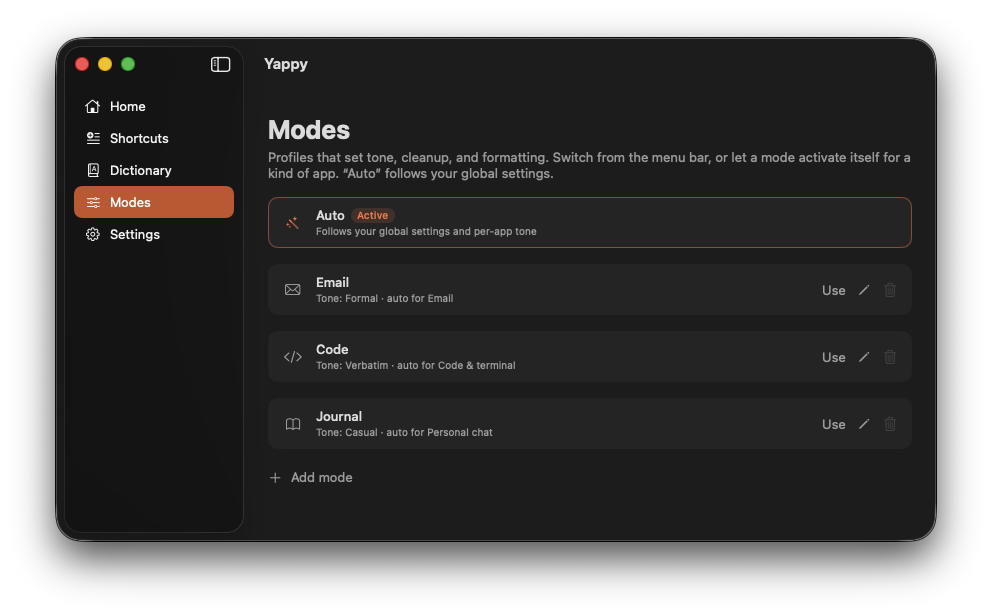
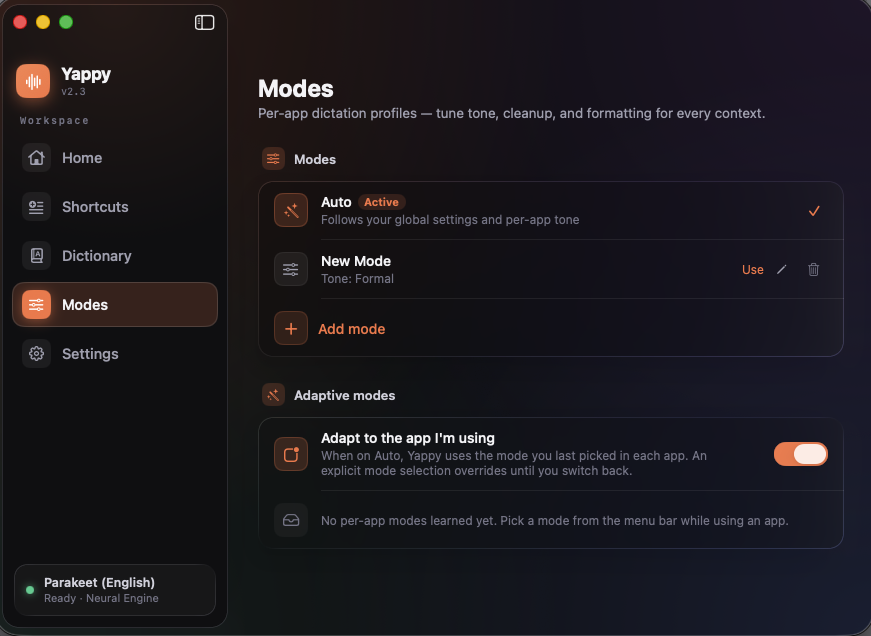
Docs: refresh screenshots and copy for v2.3
New screenshots of the Liquid Glass UI (home, settings, dictionary, modes) in
the README and landing page. Note the Nemotron multilingual model and the
Right Control hotkey; describe the redesign.

diff --git a/docs/index.html b/docs/index.html
@@ -546,7 +546,7 @@ footer { border-top: 1px solid var(--hairline); padding: clamp(3rem,6vw,4.5rem) 
         <div class="tile col-3 col-wide blue reveal">
           <div class="ico"><svg viewBox="0 0 24 24" fill="none" stroke="currentColor" stroke-width="1.8" stroke-linecap="round"><path d="M4 10v4M8 6v12M12 3v18M16 7v10M20 10v4"/></svg></div>
           <h3>Local transcription on the Neural Engine</h3>
-          <p>NVIDIA Parakeet runs directly on the Apple Neural Engine, roughly 120 times faster than real time. The model downloads once, about 443 MB, then never phones home again. It works on a plane with the Wi-Fi off.</p>
+          <p>NVIDIA Parakeet runs directly on the Apple Neural Engine, roughly 120 times faster than real time. Prefer another language? Switch to the multilingual NVIDIA Nemotron model in Settings. Either way the model downloads once and never phones home again, and it works on a plane with the Wi-Fi off.</p>
         </div>
         <!-- big: universal insertion -->
         <div class="tile col-3 col-wide reveal" style="--d:.06s">
@@ -556,19 +556,13 @@ footer { border-top: 1px solid var(--hairline); padding: clamp(3rem,6vw,4.5rem) 
         </div>
 
         <!-- punctuation -->
-        <div class="tile col-2 reveal">
+        <div class="tile col-3 reveal">
           <div class="ico"><svg viewBox="0 0 24 24" fill="none" stroke="currentColor" stroke-width="1.8" stroke-linecap="round" stroke-linejoin="round"><path d="M7 8h2v4a2 2 0 0 1-2 2M15 8h2v4a2 2 0 0 1-2 2"/></svg></div>
           <h3>Spoken numbers and marks</h3>
           <p><span class="said">"three thirty pm"</span> becomes 3:30 PM. Say "comma" or "question mark" when you want them. Deterministic, never an LLM.</p>
         </div>
-        <!-- command mode -->
-        <div class="tile col-2 blue reveal" style="--d:.06s">
-          <div class="ico"><svg viewBox="0 0 24 24" fill="none" stroke="currentColor" stroke-width="1.8" stroke-linecap="round" stroke-linejoin="round"><path d="M9 6.5A2.5 2.5 0 1 0 6.5 9H9V6.5ZM15 6.5A2.5 2.5 0 1 1 17.5 9H15V6.5ZM9 17.5A2.5 2.5 0 1 1 6.5 15H9v2.5ZM15 17.5a2.5 2.5 0 1 0 2.5-2.5H15v2.5Z"/><rect x="9" y="9" width="6" height="6" rx="1"/></svg></div>
-          <h3>Command Mode</h3>
-          <p>Select text, hold a key, and say <span class="said">"make this concise"</span> or "translate to Spanish." Rewritten in place.</p>
-        </div>
         <!-- backtrack -->
-        <div class="tile col-2 reveal" style="--d:.12s">
+        <div class="tile col-3 reveal" style="--d:.12s">
           <div class="ico"><svg viewBox="0 0 24 24" fill="none" stroke="currentColor" stroke-width="1.8" stroke-linecap="round" stroke-linejoin="round"><path d="M9 14L4 9l5-5"/><path d="M4 9h11a5 5 0 0 1 5 5v1"/></svg></div>
           <h3>Backtrack</h3>
           <p>Change your mind mid-sentence. <span class="said">"meet at 2, actually 3"</span> lands as "Let's meet at 3."</p>
@@ -594,19 +588,13 @@ footer { border-top: 1px solid var(--hairline); padding: clamp(3rem,6vw,4.5rem) 
         </div>
 
         <!-- voice editing -->
-        <div class="tile col-2 reveal">
+        <div class="tile col-3 reveal">
           <div class="ico"><svg viewBox="0 0 24 24" fill="none" stroke="currentColor" stroke-width="1.8" stroke-linecap="round" stroke-linejoin="round"><circle cx="6" cy="6" r="2.5"/><circle cx="6" cy="18" r="2.5"/><path d="M8 7l12 10M8 17L20 7"/></svg></div>
           <h3>Voice editing</h3>
           <p>Say <span class="said">"scratch that"</span>, "delete the last word", or "all caps that." Whole-utterance only, so prose is safe.</p>
         </div>
-        <!-- transforms -->
-        <div class="tile col-2 reveal" style="--d:.06s">
-          <div class="ico"><svg viewBox="0 0 24 24" fill="none" stroke="currentColor" stroke-width="1.8" stroke-linecap="round" stroke-linejoin="round"><path d="M5 19l9-9M13 5l1.6 1.6M16 8l3 3M9 3l.8 2.2L12 6l-2.2.8L9 9l-.8-2.2L6 6l2.2-.8L9 3Z"/></svg></div>
-          <h3>Transforms</h3>
-          <p>Reusable AI rewrites. Polish and Prompt Engineer ship built in. Run one on any selection, or after every dictation.</p>
-        </div>
         <!-- scratchpad -->
-        <div class="tile col-2 mint reveal" style="--d:.12s">
+        <div class="tile col-3 mint reveal" style="--d:.12s">
           <div class="ico"><svg viewBox="0 0 24 24" fill="none" stroke="currentColor" stroke-width="1.8" stroke-linecap="round" stroke-linejoin="round"><path d="M5 4h10l4 4v12H5z"/><path d="M15 4v4h4M8 13h8M8 16.5h5"/></svg></div>
           <h3>Scratchpad</h3>
           <p>A floating notepad a keystroke away (Option Shift S). Jot or dictate without leaving your app. Kept local, syncs nowhere.</p>

diff --git a/README.md b/README.md
@@ -35,7 +35,7 @@ It stays out of your way until you need it: a single global hotkey, a small reco
 
 ## A real app, not just a menu bar blip
 
-Open Yappy and you land on a home that actually tells you something: how much time dictation has saved you, your stats and personal records, a heatmap of *when* you dictate, the apps you use it in most, and your searchable history — all stored locally.
+Open Yappy and you land on a home that actually tells you something: how much time dictation has saved you, your stats and personal records, a heatmap of *when* you dictate, the apps you use it in most, and your searchable history — all stored locally. The whole interface is a bespoke **Liquid Glass** design — a branded sidebar and translucent glass cards across every screen.
 
 <div align="center">
 <img src="Documentation/assets/home.png" alt="Yappy home — time saved, stats, a when-you-dictate heatmap, top apps, and personal records" width="420">
@@ -51,7 +51,7 @@ Build dictation **modes** for different contexts — and teach Yappy the names a
 <img src="Documentation/assets/dictionary.png" alt="Yappy custom dictionary, showing the spellings it learned to correct" width="560">
 </div>
 
-Everything is configurable in one place — hotkey, sounds, number formatting, numbered lists, filler removal, spoken commands, spoken punctuation, voice editing, voice commands, Command Mode, Transforms, adaptive per-app modes, optional AI cleanup (with self-correction), and permissions.
+Everything is configurable in one place — hotkey, sounds, number formatting, numbered lists, filler removal, spoken commands, spoken punctuation, voice editing, voice commands, adaptive per-app modes, optional AI cleanup (with self-correction), and permissions.
 
 <div align="center">
 <img src="Documentation/assets/settings.png" alt="Yappy settings — hotkey, sounds, number formatting, filler removal, spoken commands, and voice editing" width="560">
@@ -59,7 +59,7 @@ Everything is configurable in one place — hotkey, sounds, number formatting, n
 
 ## Features
 
-**Local transcription** — Parakeet TDT 0.6B (English) on the Apple Neural Engine, roughly 120× real-time on Apple Silicon. The model downloads once (~443 MB) and never phones home again.
+**Local transcription** — a selectable speech model, running on the Apple Neural Engine via [FluidAudio](https://github.com/FluidInference/FluidAudio). **Parakeet** (English) is the default — Parakeet TDT 0.6B, roughly 120× real-time on Apple Silicon, downloading once (~443 MB). Prefer another language? Switch to **Nemotron 3.5** (multilingual, ~670 MB), which downloads on first use. Either way the model is fetched once and never phones home again; pick yours in **Settings**.
 
 **Universal insertion** — pastes at the cursor in any app, including Electron apps, web views, and terminals where direct insertion fails. Your clipboard is snapshotted and restored, so nothing you copied gets clobbered.
 
@@ -71,13 +71,9 @@ Everything is configurable in one place — hotkey, sounds, number formatting, n
 
 **Spoken punctuation** — dictate the marks you want: *"comma"*, *"period"*, *"question mark"*, *"open paren … close paren."* It matches whole words only, so plurals and embedded words are safe — and it's a toggle if you'd rather say those words literally.
 
-**Command Mode** — select text anywhere, hold the command hotkey, and speak an instruction: *"make this concise"*, *"translate to Spanish"*, *"turn this into a bulleted list."* The selection is rewritten in place. Powered by on-device **Apple Intelligence** (macOS 26+) or a local **LM Studio** model; if neither is available, your text is left untouched.
-
 **Backtrack** — change your mind mid-sentence and Yappy keeps the correction: *"let's meet at 2, actually 3"* lands as *"Let's meet at 3."* Part of the optional AI cleanup, so it rides along with whatever else cleanup is doing.
 
-**Transforms** — reusable AI rewrites of selected text. Two ship built in — **Polish** (tighten for clarity) and **Prompt Engineer** (restructure into a clean AI prompt) — and you can add your own. Run one from the menu bar on any selection, or set one to run automatically after every dictation. Powered by on-device Apple Intelligence or your local LM Studio model.
-
-**On-device AI cleanup** — polish transcripts with a local model that fixes punctuation, capitalization, and filler. Choose the engine in Settings: **Apple Intelligence** (fully on-device, macOS 26+, nothing to install), a local **LM Studio** model, or **Automatic** (Apple Intelligence when available, otherwise LM Studio). The same engine powers Command Mode, Transforms, and backtrack.
+**On-device AI cleanup** — polish transcripts with a fix-up pass for punctuation, capitalization, and filler. It runs entirely on-device with **Apple Intelligence** (macOS 26+) and is **on by default**; where Apple Intelligence isn't available it degrades to the raw transcript. The same engine powers backtrack.
 
 **Automatic updates** — Yappy keeps itself current via [Sparkle](https://sparkle-project.org), with EdDSA-signed releases verified before they're applied. No surprise dialogs: when a new version is ready a calm banner slides in over the window, an *Update to Yappy …* item appears at the top of the menu bar, and a dot marks the menu-bar icon — install on your own schedule with one click. After an update, a short *What's New* card recaps what changed. Check manually any time from the menu bar or **Settings → Software Update**.
 
@@ -99,11 +95,11 @@ Everything is configurable in one place — hotkey, sounds, number formatting, n
 
 **Activity at a glance** — a "time saved versus typing" headline, words-per-minute, streaks and personal records, a day-by-hour heatmap of when you dictate, the apps you use it in most, and a shareable *"Year in Voice"* recap.
 
-**Polished hotkeys** — hold Right ⌘, double-tap Right ⌘, or hold Right ⌥. A debounced state machine ignores key repeats and accidental taps, so it never fires when you don't mean it. Press **Esc** mid-dictation to cancel cleanly.
+**Polished hotkeys** — hold Right ⌘, double-tap Right ⌘, hold Right ⌥, or hold Right ⌃. A debounced state machine ignores key repeats and accidental taps, so it never fires when you don't mean it. Press **Esc** mid-dictation to cancel cleanly.
 
 **Considered details** — a molten-glass recording pill whose glow breathes with your voice, a menu bar icon that animates while recording, and subtle custom start/stop/done sounds.
 
-**Private by design** — audio is transcribed on-device and never written to disk; no telemetry, no account. After the one-time model download, the only network traffic is to your own LM Studio on `localhost` (and only if you turn cleanup on). A privacy panel on the home screen reflects this state at a glance.
+**Private by design** — audio is transcribed on-device and never written to disk; no telemetry, no account. After the one-time model download, Yappy runs fully offline — nothing you say leaves your Mac. A privacy panel on the home screen reflects this state at a glance.
 
 ## Download
 
@@ -140,35 +136,30 @@ Then press **Run** (⌘R) in Xcode — dependencies (FluidAudio) resolve automat
 
 > **Cutting a public release:** `Scripts/release-dmg.sh` builds a Developer ID–signed, notarized, stapled `Yappy.dmg` into `dist/` (the download that opens with no Gatekeeper warnings), and with `--publish <tag>` uploads it to a GitHub Release. Needs a one-time `notarytool` keychain profile — run `Scripts/release-dmg.sh --help` for setup. Maintainer-only.
 
-## AI cleanup: on-device or LM Studio
+## On-device AI cleanup
 
-Yappy can tidy up filler words, punctuation, and phrasing — and power Command Mode and Transforms — with a local LLM. Enable **AI Cleanup** under Settings and pick the **engine**:
+Yappy can tidy up filler words, punctuation, and phrasing with **Apple Intelligence** (macOS 26+), running fully on-device via Apple's Foundation Models. There's nothing to install: just turn on Apple Intelligence in System Settings.
 
-- **Apple Intelligence** *(macOS 26+, recommended)* — fully on-device via Apple's Foundation Models. Nothing to install; just turn on Apple Intelligence in System Settings.
-- **LM Studio** — a model you run locally in [LM Studio](https://lmstudio.ai) (start its server, default `http://localhost:1234`). Works on any supported macOS.
-- **Automatic** — uses Apple Intelligence when it's available, otherwise falls back to LM Studio.
-
-Everything stays on your machine — no API keys, no cloud. Cleanup degrades gracefully: if no engine is available, the raw transcript is inserted and nothing breaks.
+It's **on by default** and everything stays on your machine — no API keys, no cloud. Cleanup degrades gracefully: where Apple Intelligence isn't available, the raw transcript is inserted and nothing breaks.
 
 ## Privacy
 
 - Audio is transcribed on-device and held only in memory — the recording itself is never written to disk.
 - Your dictation history, shortcuts, and custom dictionary are stored locally in plain JSON under `~/Library/Application Support/Yappy/`, readable only by your macOS account. Clear your history anytime from the home window.
 - No telemetry, no analytics, no account.
-- The single one-time network request is the model download from Hugging Face. After that, Yappy runs fully offline (LM Studio calls, if enabled, stay on `localhost`).
+- The single one-time network request is the model download from Hugging Face. After that, Yappy runs fully offline.
 
 ## Architecture
 
 | Area | Files | Role |
 |------|-------|------|
-| Transcription | `Services/ParakeetTranscriptionService.swift` | Loads & pre-warms Parakeet; batch transcription on release |
+| Transcription | `Services/ParakeetTranscriptionService.swift` | Loads & pre-warms the selected model (Parakeet or Nemotron); batch transcription on release |
 | Audio capture | `App/AudioRecorder.swift` | AVAudioEngine → in-memory 16 kHz mono Float32 |
 | Hotkeys | `Services/HotkeyManager.swift` | One CGEvent tap + a pure, unit-tested state machine |
 | Text insertion | `Services/TextInserter.swift` | Cmd+V paste with change-count-safe clipboard restore |
-| Command Mode / cleanup / transforms | `Services/CleanupCoordinator.swift`, `FoundationModelsCleanupProvider.swift`, `LMStudioService.swift` | Routes cleanup, backtrack, Command Mode & transforms to on-device Apple Intelligence or local LM Studio; graceful fallback |
+| AI cleanup | `Services/CleanupCoordinator.swift`, `FoundationModelsCleanupProvider.swift` | Routes cleanup and backtrack to on-device Apple Intelligence; graceful fallback |
 | Transcript formatting | `Services/TranscriptPipeline.swift` + `Spoken*Formatter.swift` | Fillers, numbers, lists, line breaks, punctuation — deterministic, on-device |
 | Custom dictionary | `Core/DictionaryStore.swift`, `Core/BuiltInDictionary.swift` | Built-in dev terms + learned aliases corrected back to canonical spelling |
-| Transforms | `Core/TransformStore.swift`, `UI/TransformsView.swift` | Named AI rewrites; menu-bar or auto-after-dictation |
 | Scratchpad | `UI/ScratchpadController.swift`, `Core/NotesStore.swift` | Floating notepad (⌥⇧S) with local note storage |
 | Pill & windows | `UI/` | Floating pill, home window, settings, onboarding |
 
@@ -178,12 +169,11 @@ Everything stays on your machine — no API keys, no cloud. Cleanup degrades gra
 xcodebuild -project Yappy.xcodeproj -scheme Yappy test
 ```
 
-Covers the hotkey state machine, settings persistence and migration, the transcript pipeline (numbers, lists, spoken punctuation), the custom dictionary and its built-in dev terms, transforms and notes stores, AI-cleanup prompt assembly, history-based shortcut suggestions, voice-command parsing, adaptive per-app mode resolution, dictation history and stats, voice-shortcut expansion, and app-context classification.
+Covers the hotkey state machine, settings persistence and migration, the transcript pipeline (numbers, lists, spoken punctuation), the custom dictionary and its built-in dev terms, the notes store, AI-cleanup prompt assembly, history-based shortcut suggestions, voice-command parsing, adaptive per-app mode resolution, dictation history and stats, voice-shortcut expansion, and app-context classification.
 
 ## Built with
 
 - [FluidAudio](https://github.com/FluidInference/FluidAudio) — Parakeet, CoreML, and the Apple Neural Engine inference stack.
-- [LM Studio](https://lmstudio.ai) — optional, local LLM cleanup.
 
 ## License
 
